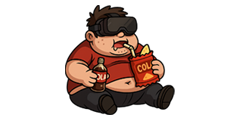
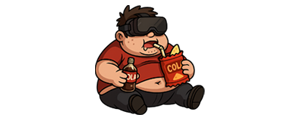
调整怪物尺寸

Changed region(s): [[0.2625, 0.025, 0.7292, 0.975]]

diff --git a/js/ui/monster_ui.js b/js/ui/monster_ui.js
@@ -58,8 +58,8 @@ export function drawMonsterSprite(ctx, canvas) {
   }
 
   const img = monsterImageCache[monster.id];
-  const SPR_W = 360;
-  const SPR_H = 180;
+  const SPR_W = 300;
+  const SPR_H = 120;
   let x = (canvas.width - SPR_W) / 2;
   let gridTop = globalThis.__gridStartY || (canvas.height * 0.7);  // Fallback
 let y = Math.max(32, gridTop - 320);  // 让怪物始终在棋盘上方一定高度
